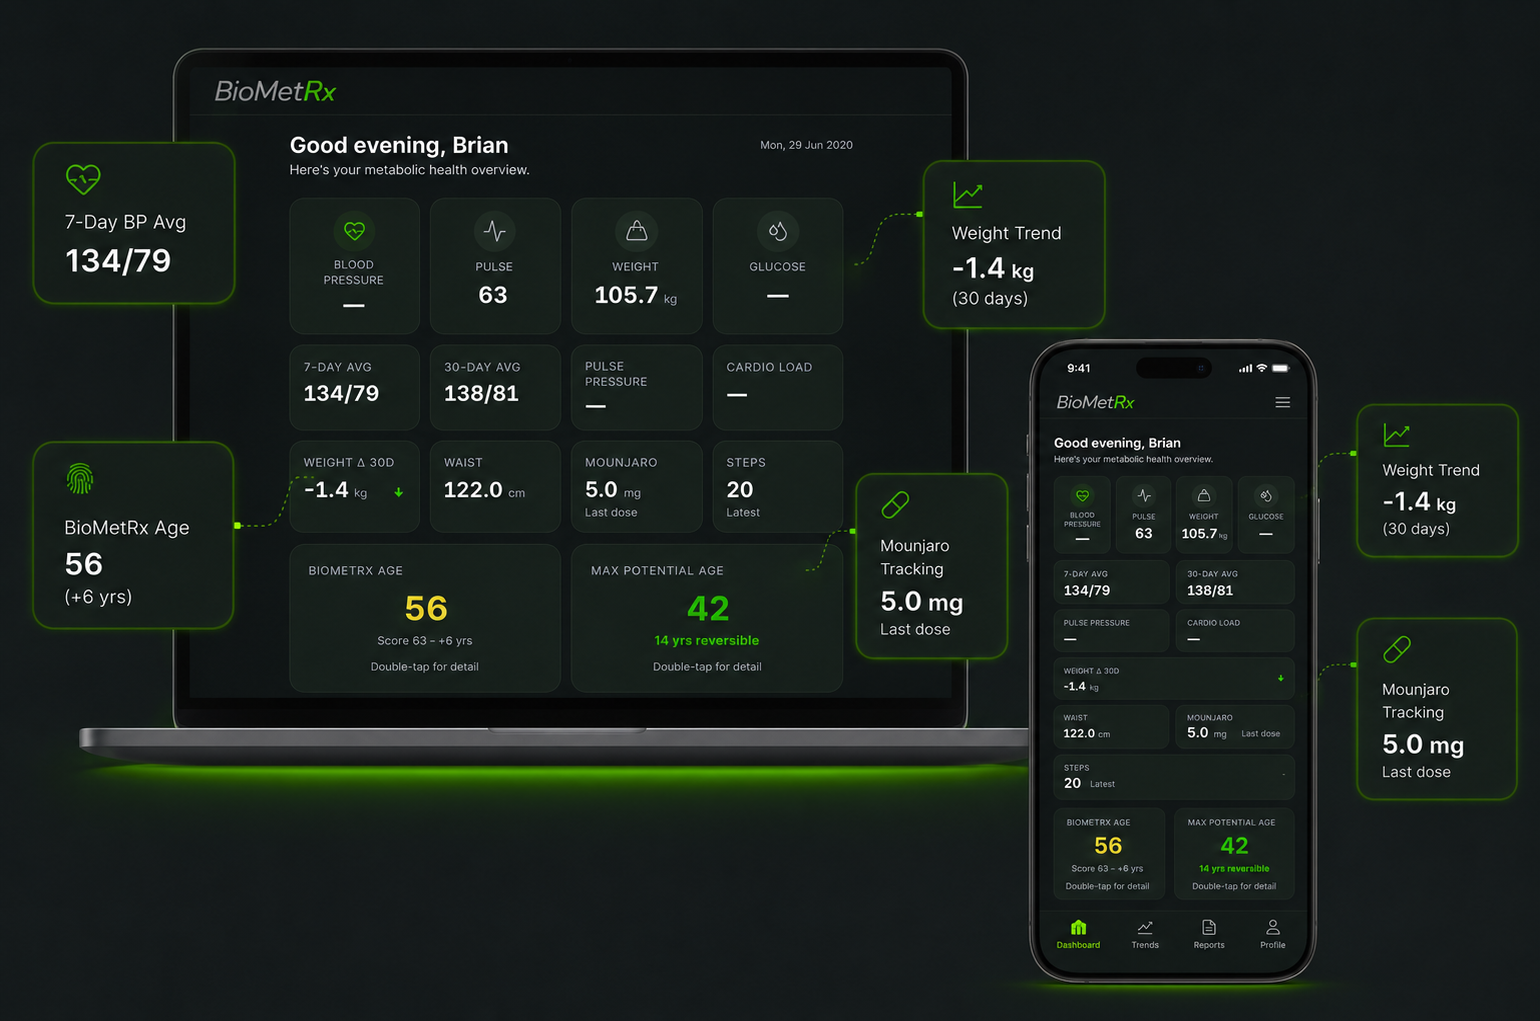
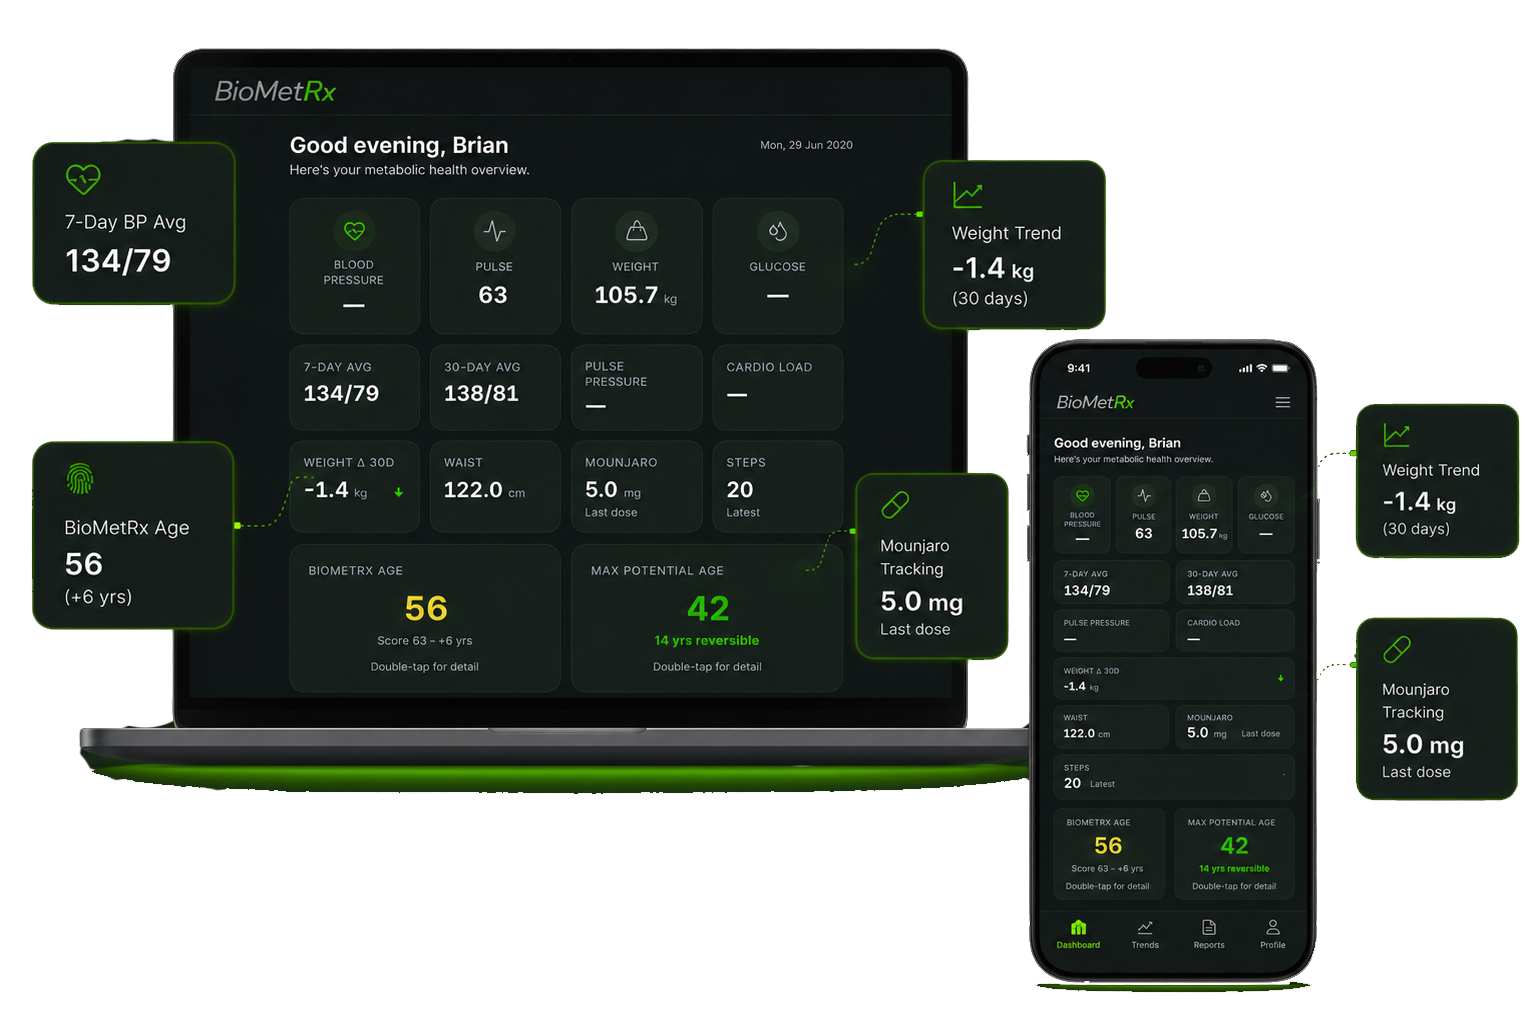
landing page

diff --git a/src/pages/Landing.tsx b/src/pages/Landing.tsx
@@ -8,6 +8,15 @@ import {
   Sparkles,
   ChevronRight,
   ShieldCheck,
+  Scale,
+  TrendingUp,
+  Flame,
+  Shield,
+  Fingerprint,
+  Target,
+  Pill,
+  Droplet,
+  RefreshCw,
 } from 'lucide-react'
 
 const features = [
@@ -43,19 +52,82 @@ const features = [
   },
 ]
 
-const steps = [
-  { n: '1', title: 'Create your account', body: 'Sign up free and set your profile — date of birth, units and preferences.' },
-  { n: '2', title: 'Log your numbers', body: 'Add blood pressure, weight, bloods and lifestyle data in seconds, or sync steps from Health Connect.' },
-  { n: '3', title: 'Watch your age drop', body: 'See your BiometRx Age, the factors holding it back, and how many years you could recover.' },
+const pattern = [
+  {
+    icon: Scale,
+    title: 'Weight is only one signal',
+    body: "Weight can change for many reasons. BioMetRx shows you what's driving it.",
+  },
+  {
+    icon: HeartPulse,
+    title: 'Blood pressure matters',
+    body: "It's one of the strongest indicators of long-term health and risk.",
+  },
+  {
+    icon: TrendingUp,
+    title: 'Trends beat snapshots',
+    body: 'Daily and 30-day trends reveal progress that single readings never will.',
+  },
+]
+
+const pillars = [
+  {
+    icon: Flame,
+    title: 'Fuel',
+    body: 'Understand how your body is handling glucose, weight, and medication.',
+  },
+  {
+    icon: HeartPulse,
+    title: 'Pressure',
+    body: 'Track blood pressure and cardiovascular load to reduce long-term risk.',
+  },
+  {
+    icon: Shield,
+    title: 'Resilience',
+    body: 'Improve your BioMetRx Age and increase the years you can live well.',
+  },
+]
+
+const dashboard = [
+  {
+    icon: HeartPulse,
+    title: 'Blood Pressure Trends',
+    body: '7-day and 30-day averages, pulse pressure, and cardiovascular load.',
+  },
+  {
+    icon: Fingerprint,
+    title: 'BioMetRx Age',
+    body: 'A composite score that reflects your metabolic health age.',
+  },
+  {
+    icon: Target,
+    title: 'Max Potential Age',
+    body: 'See how many years are recoverable with better habits.',
+  },
+  {
+    icon: Pill,
+    title: 'Medication Tracking',
+    body: 'Track GLP-1s and other medications with dosage and last dose.',
+  },
+  {
+    icon: Droplet,
+    title: 'Glucose & Labs',
+    body: 'Log glucose and lab markers to see the full metabolic picture.',
+  },
+  {
+    icon: RefreshCw,
+    title: 'Health Connect Ready',
+    body: 'Syncs with Apple Health and Google Health Connect.',
+  },
 ]
 
 export default function Landing() {
   const year = new Date().getFullYear()
 
   return (
-    <div className="min-h-screen bg-[#0b1210] text-gray-100">
+    <div className="min-h-screen bg-[#121919] text-gray-100">
       {/* Nav */}
-      <header className="sticky top-0 z-40 backdrop-blur bg-[#0b1210]/80 border-b border-[#1e3029]">
+      <header className="sticky top-0 z-40 backdrop-blur bg-[#121919]/80 border-b border-[#1e3029]">
         <div className="max-w-6xl mx-auto px-5 h-16 flex items-center justify-between">
           <img src="/BioMetrxLogo.png" alt="BioMetRx" className="h-8" />
           <nav className="hidden md:flex items-center gap-7 text-sm text-gray-300">
@@ -98,9 +170,6 @@ export default function Landing() {
                 Start Tracking Your Health
                 <ChevronRight className="w-4 h-4" />
               </Link>
-              <Link to="/login" className="btn-secondary inline-flex items-center justify-center !py-3 !px-6">
-                See the Dashboard
-              </Link>
             </div>
             <p className="mt-5 flex items-center gap-2 text-xs text-gray-500 justify-center lg:justify-start">
               <ShieldCheck className="w-4 h-4 text-brand-green" />
@@ -113,7 +182,7 @@ export default function Landing() {
             <img
               src="/heroImage.png"
               alt="BioMetRx dashboard on laptop and phone"
-              className="w-full h-auto"
+              className="w-full h-auto lg:scale-125 origin-center"
               loading="eager"
             />
           </div>
@@ -135,15 +204,67 @@ export default function Landing() {
         </div>
       </section>
 
-      {/* How it works */}
-      <section id="how" className="max-w-4xl mx-auto px-5 py-12 scroll-mt-20">
-        <h2 className="text-2xl font-bold text-center mb-2">How it works</h2>
-        <p className="text-center text-gray-500 mb-10">Three steps to a clearer picture of your health.</p>
-        <div className="grid sm:grid-cols-3 gap-4">
-          {steps.map(({ n, title, body }) => (
-            <div key={n} className="card">
-              <div className="w-8 h-8 rounded-full bg-brand-green text-white font-bold flex items-center justify-center mb-3">
-                {n}
+      {/* How it works — tracks the pattern */}
+      <section id="how" className="max-w-6xl mx-auto px-5 py-14 scroll-mt-20">
+        <h2 className="text-2xl sm:text-3xl font-bold text-center tracking-tight">
+          Most health apps track fragments.{' '}
+          <span className="text-brand-green">BioMetRx tracks the pattern.</span>
+        </h2>
+        <p className="mt-3 text-center text-gray-400 max-w-2xl mx-auto leading-relaxed">
+          The scale, your watch, and your blood pressure monitor each tell part of the story.
+          BioMetRx connects the dots so you can understand what's really changing.
+        </p>
+        <div className="mt-10 grid sm:grid-cols-3 gap-4">
+          {pattern.map(({ icon: Icon, title, body }) => (
+            <div key={title} className="card hover:border-brand-green/40 transition-colors">
+              <div className="w-10 h-10 rounded-xl bg-brand-green/10 border border-brand-green/20 flex items-center justify-center mb-3">
+                <Icon className="w-5 h-5 text-brand-green" />
+              </div>
+              <h3 className="font-semibold text-white mb-1.5">{title}</h3>
+              <p className="text-sm text-gray-400 leading-relaxed">{body}</p>
+            </div>
+          ))}
+        </div>
+      </section>
+
+      {/* Built for metabolic health */}
+      <section className="border-y border-[#1e3029] bg-[#0e1514]">
+        <div className="max-w-6xl mx-auto px-5 py-14 grid lg:grid-cols-2 gap-10 lg:gap-12 items-start">
+          <div>
+            <h2 className="text-2xl sm:text-3xl font-bold tracking-tight leading-snug">
+              Built for <span className="text-brand-green">metabolic health,</span>
+              <br />
+              not vanity metrics.
+            </h2>
+            <p className="mt-4 text-gray-400 leading-relaxed max-w-md">
+              BioMetRx is designed around metabolic resilience and deeper signals — not just
+              calories, steps, or appearance. We focus on the markers that drive long-term outcomes.
+            </p>
+          </div>
+          <div className="grid sm:grid-cols-3 gap-6">
+            {pillars.map(({ icon: Icon, title, body }) => (
+              <div key={title}>
+                <div className="w-10 h-10 rounded-xl bg-brand-green/10 border border-brand-green/20 flex items-center justify-center mb-3">
+                  <Icon className="w-5 h-5 text-brand-green" />
+                </div>
+                <h3 className="font-semibold text-white mb-1.5">{title}</h3>
+                <p className="text-sm text-gray-400 leading-relaxed">{body}</p>
+              </div>
+            ))}
+          </div>
+        </div>
+      </section>
+
+      {/* One dashboard */}
+      <section className="max-w-6xl mx-auto px-5 py-14">
+        <h2 className="text-2xl sm:text-3xl font-bold text-center mb-10 tracking-tight">
+          One dashboard. The numbers that matter.
+        </h2>
+        <div className="grid sm:grid-cols-2 lg:grid-cols-3 gap-4">
+          {dashboard.map(({ icon: Icon, title, body }) => (
+            <div key={title} className="card hover:border-brand-green/40 transition-colors">
+              <div className="w-10 h-10 rounded-xl bg-brand-green/10 border border-brand-green/20 flex items-center justify-center mb-3">
+                <Icon className="w-5 h-5 text-brand-green" />
               </div>
               <h3 className="font-semibold text-white mb-1.5">{title}</h3>
               <p className="text-sm text-gray-400 leading-relaxed">{body}</p>

diff --git a/src/components/ReadingForm.tsx b/src/components/ReadingForm.tsx
@@ -536,9 +536,11 @@ export default function ReadingForm({ onSubmit, initialValues, nutritionFill, su
         />
       </div>
 
-      <button type="submit" disabled={saving} className="btn-primary w-full">
-        {saving ? 'Saving...' : submitLabel}
-      </button>
+      <div style={{ paddingBottom: 'max(1rem, env(safe-area-inset-bottom))' }}>
+        <button type="submit" disabled={saving} className="btn-primary w-full">
+          {saving ? 'Saving...' : submitLabel}
+        </button>
+      </div>
     </form>
   )
 }